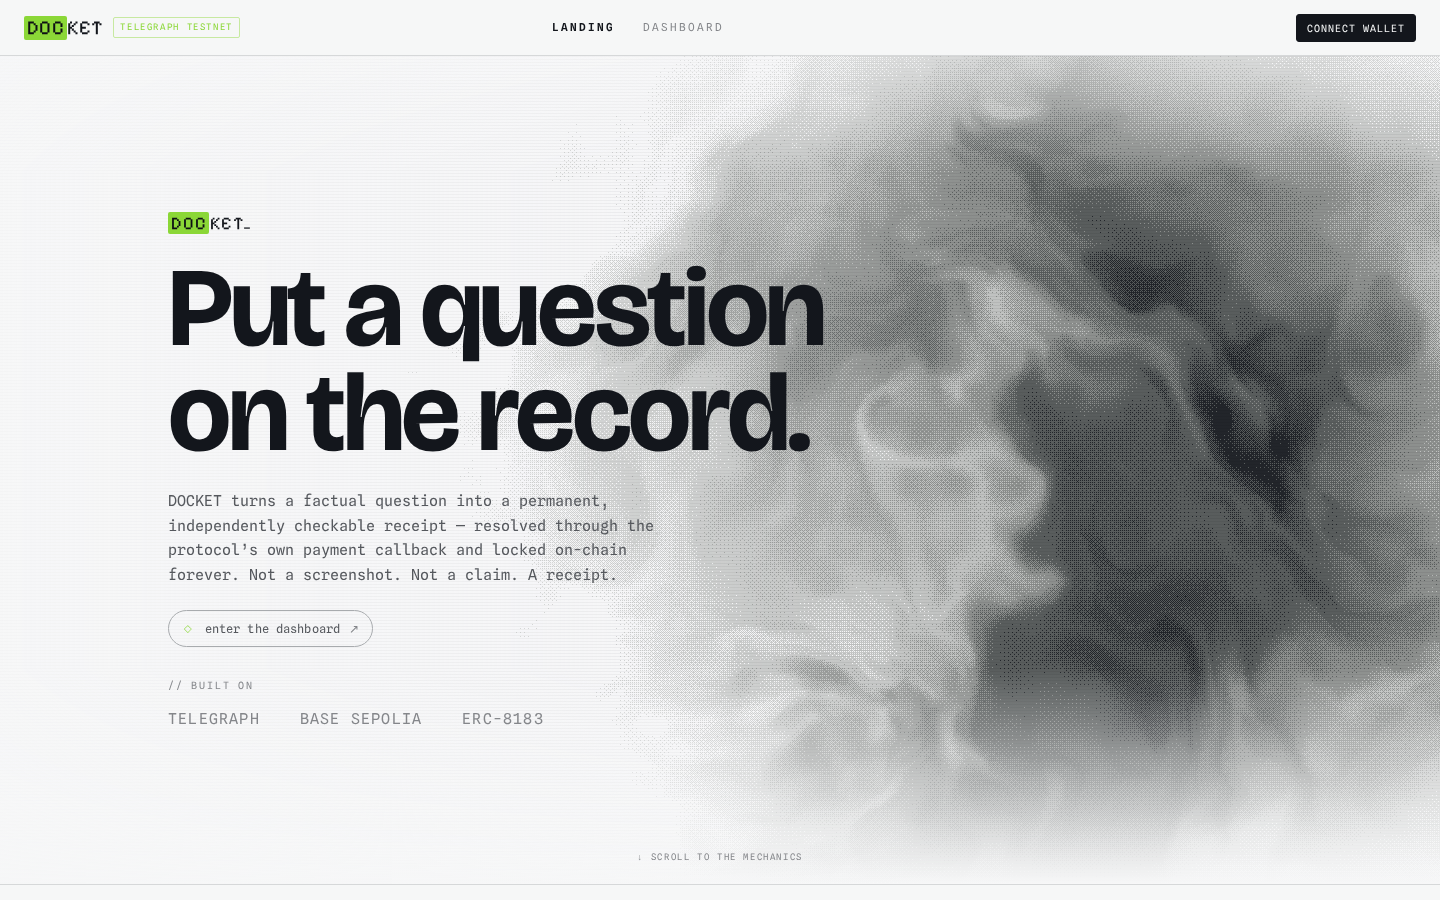
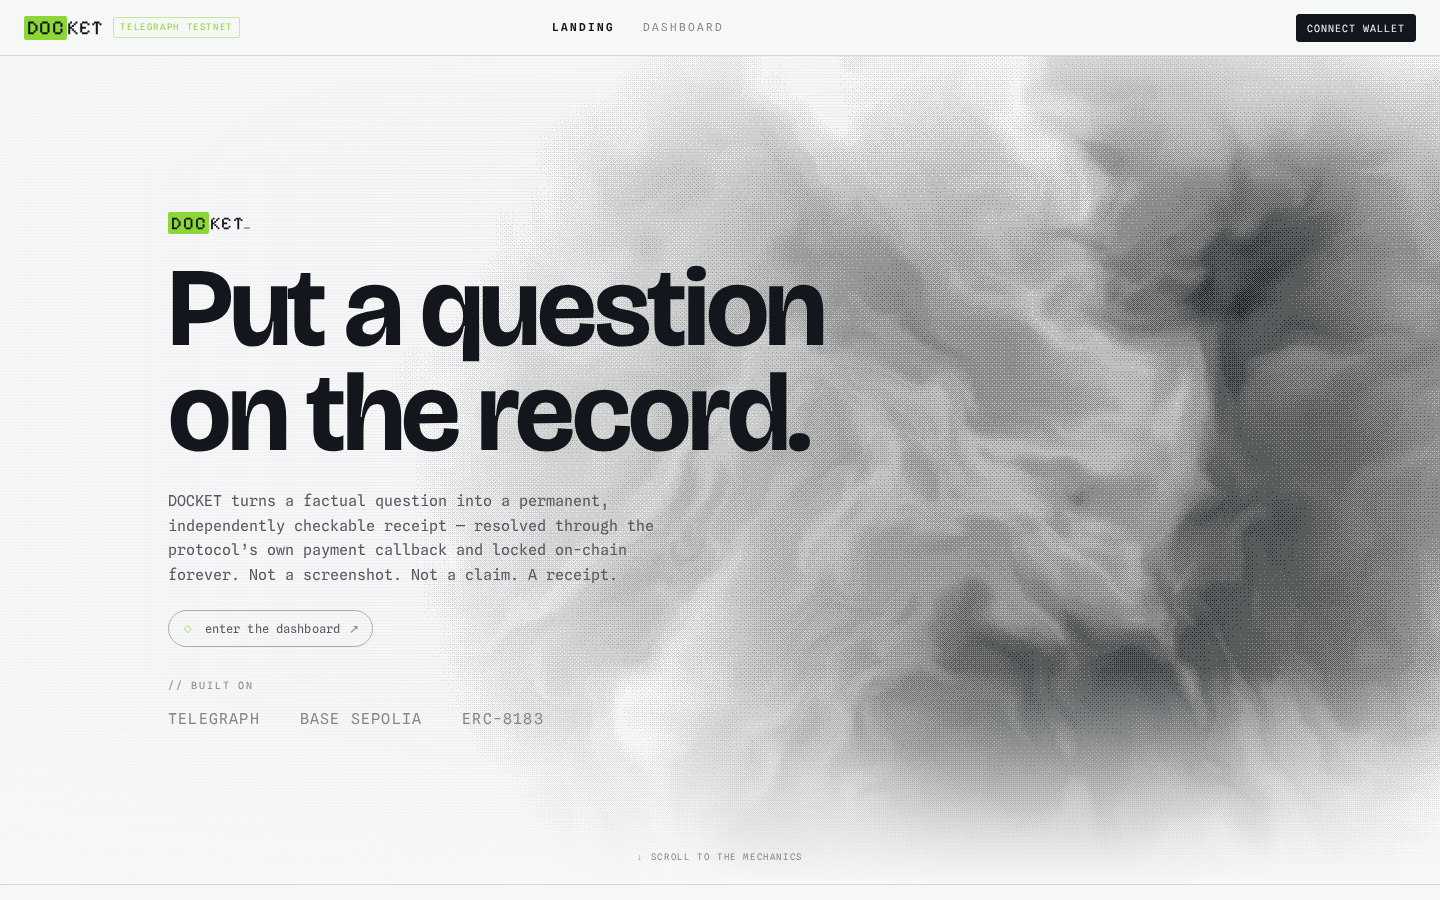
feat: drop user-count metrics (unique wallets / returning users) from landing + usage panel — judges verify contracts/txns, not vanity user numbers; recaptured landing + dashboard screenshots to match

Changed region(s): [[0.2812, 0.0622, 1.0, 0.8711]]

diff --git a/frontend/src/pages/LandingPage.jsx b/frontend/src/pages/LandingPage.jsx
@@ -226,7 +226,7 @@ export default function LandingPage({ wallet, go }) {
               {metrics.resolved} receipt{metrics.resolved === 1 ? '' : 's'} minted on Base Sepolia
             </div>
             <div className="label" style={{ fontSize: 9, color: 'var(--faint)', marginTop: 4, letterSpacing: '0.1em' }}>
-              {metrics.wallets} UNIQUE WALLET{metrics.wallets === 1 ? '' : 'S'} · {metrics.intents} INTENT{metrics.intents === 1 ? '' : 'S'} · ${metrics.jobValue != null ? (metrics.jobValue / 1e6).toFixed(2) : '—'} USDC ROUTED — EVERY RECORD ORIGINATES FROM A REAL TELEGRAPH JOB
+              {metrics.intents} INTENT{metrics.intents === 1 ? '' : 'S'} · ${metrics.jobValue != null ? (metrics.jobValue / 1e6).toFixed(2) : '—'} USDC ROUTED — EVERY RECORD ORIGINATES FROM A REAL TELEGRAPH JOB
             </div>
           </div>
           <div className="label" style={{ fontSize: 9, color: 'var(--faint)', maxWidth: 260, lineHeight: 1.7, textTransform: 'none', letterSpacing: '0.02em' }}>

diff --git a/frontend/src/components/UsagePanel.jsx b/frontend/src/components/UsagePanel.jsx
@@ -23,10 +23,8 @@ export default function UsagePanel() {
   }
 
   const stats = [
-    ['unique wallets', m.wallets ?? '—'],
     ['questions asked', m.records ?? '—'],
     ['receipts minted', m.resolved ?? '—'],
-    ['returning users (2+ receipts)', m.returningUsers ?? '—'],
     ['intents used', m.intents ?? '—'],
     ['USDC routed (escrow)', m.jobValue != null ? `$${(m.jobValue / 1e6).toFixed(2)}` : '—'],
   ];

diff --git a/README.md b/README.md
@@ -143,7 +143,7 @@ Real pages from the live deployment — every number shown is read directly from
 
 ### Landing
 
-The hero explains the product in one line — "Put a question on the record" — with the live usage banner below it: receipts minted, unique wallets, intents and USDC routed, all read live from the chain.
+The hero explains the product in one line — "Put a question on the record" — with the live usage banner below it: receipts minted, intents and USDC routed, all read live from the chain.
 
 <img src="assets/landing.png" alt="DOCKET landing — Put a question on the record, live usage banner" width="100%" />
 
